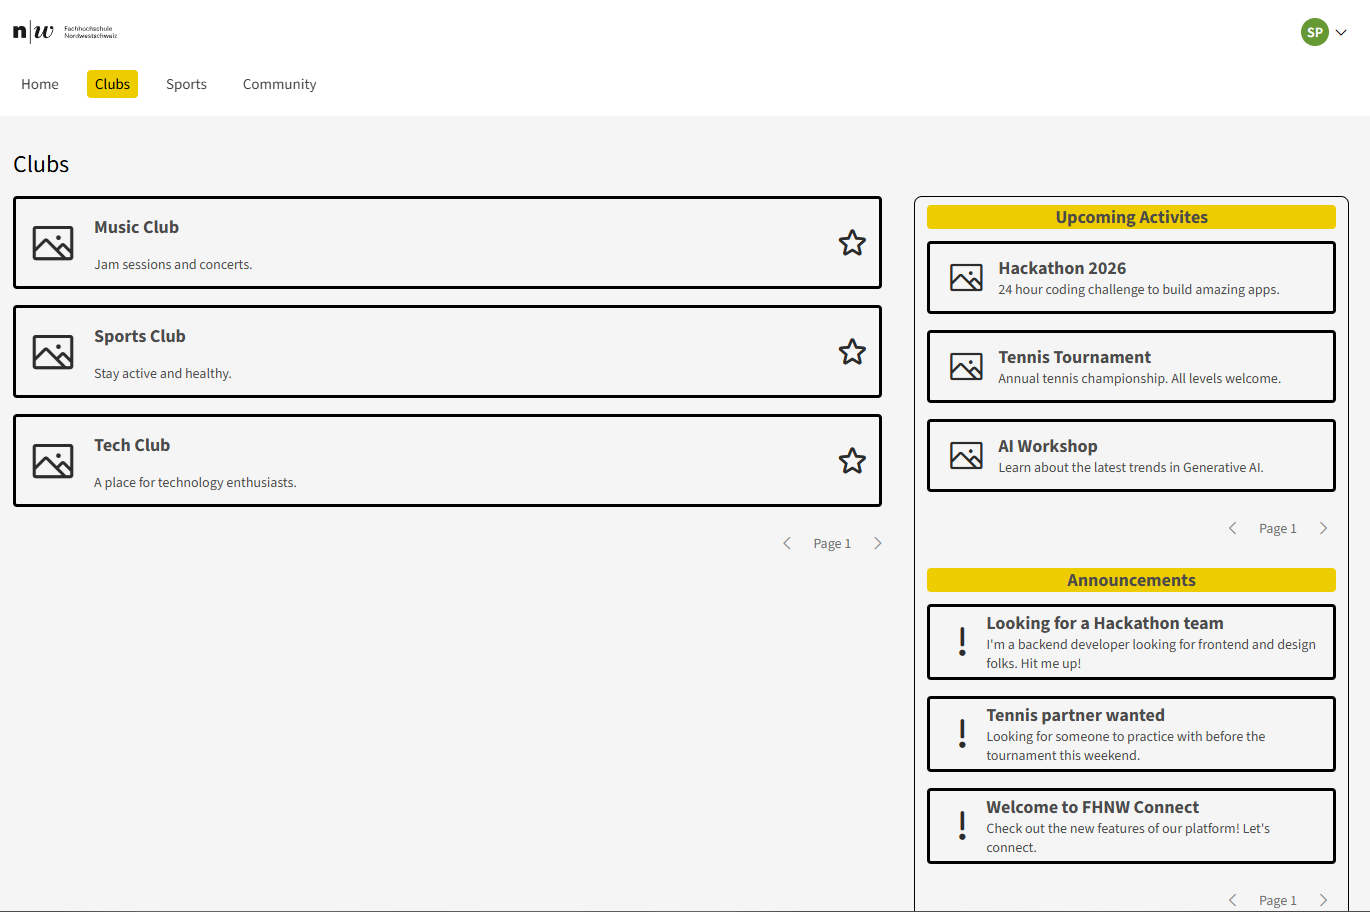
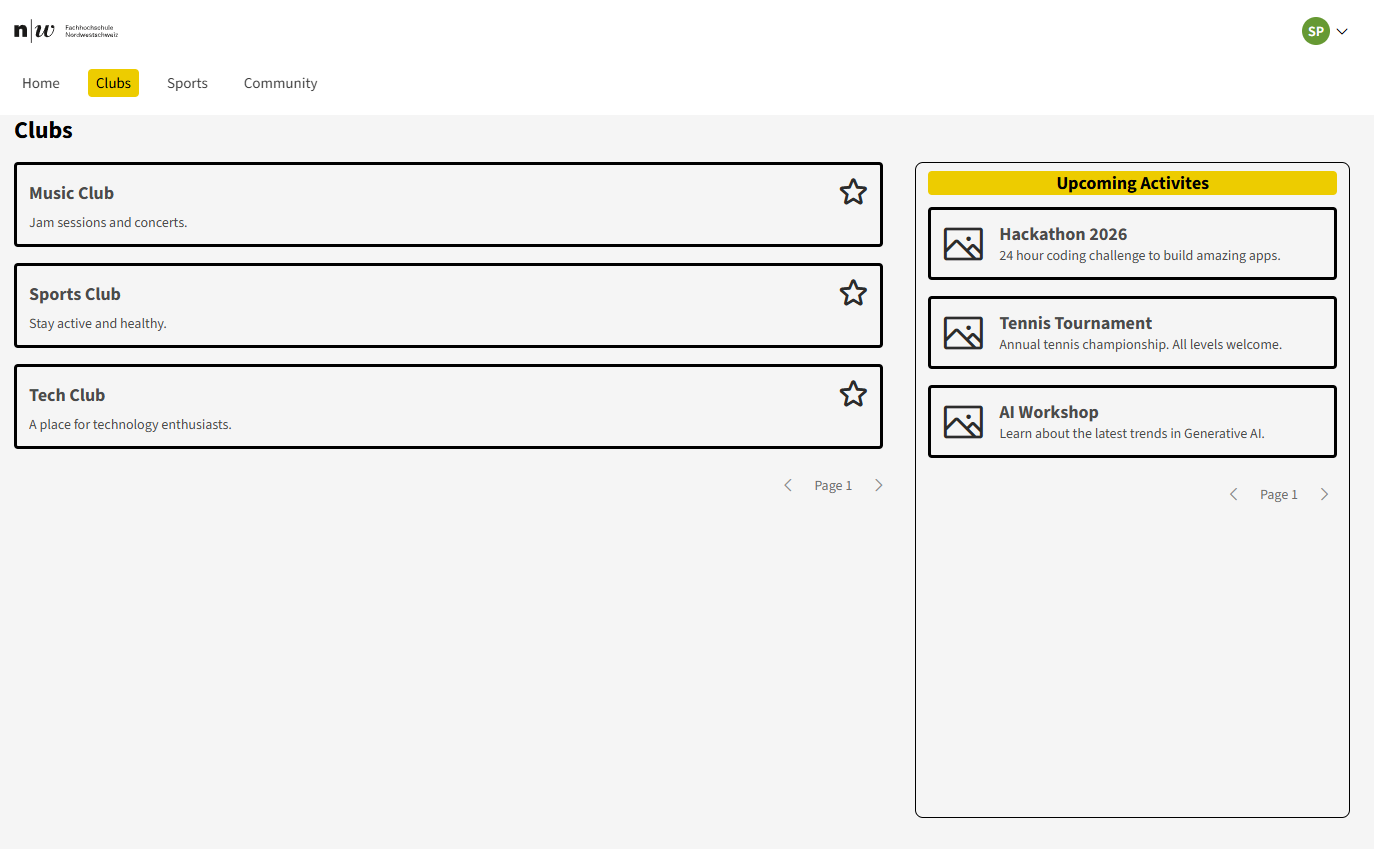
changes: readme.md images

diff --git a/README.md b/README.md
@@ -148,6 +148,8 @@ The Community module provides:
 
 <img src="images/FHNW Connect_Home.png" width="1000">
 
+<img src="images/FHNW Connect_Home_2.png" width="1000">
+
 ### Features
 
 - Calendar overview
